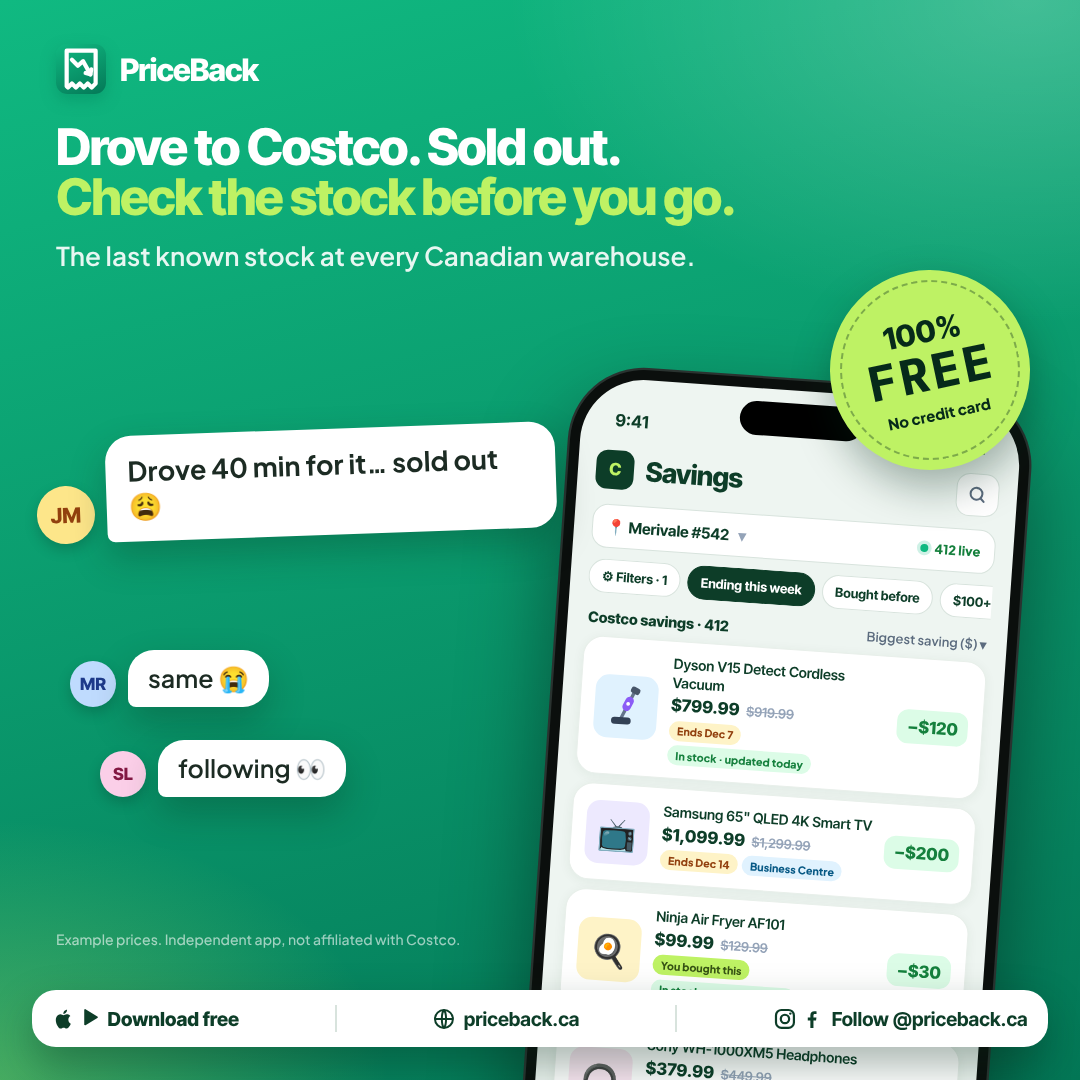
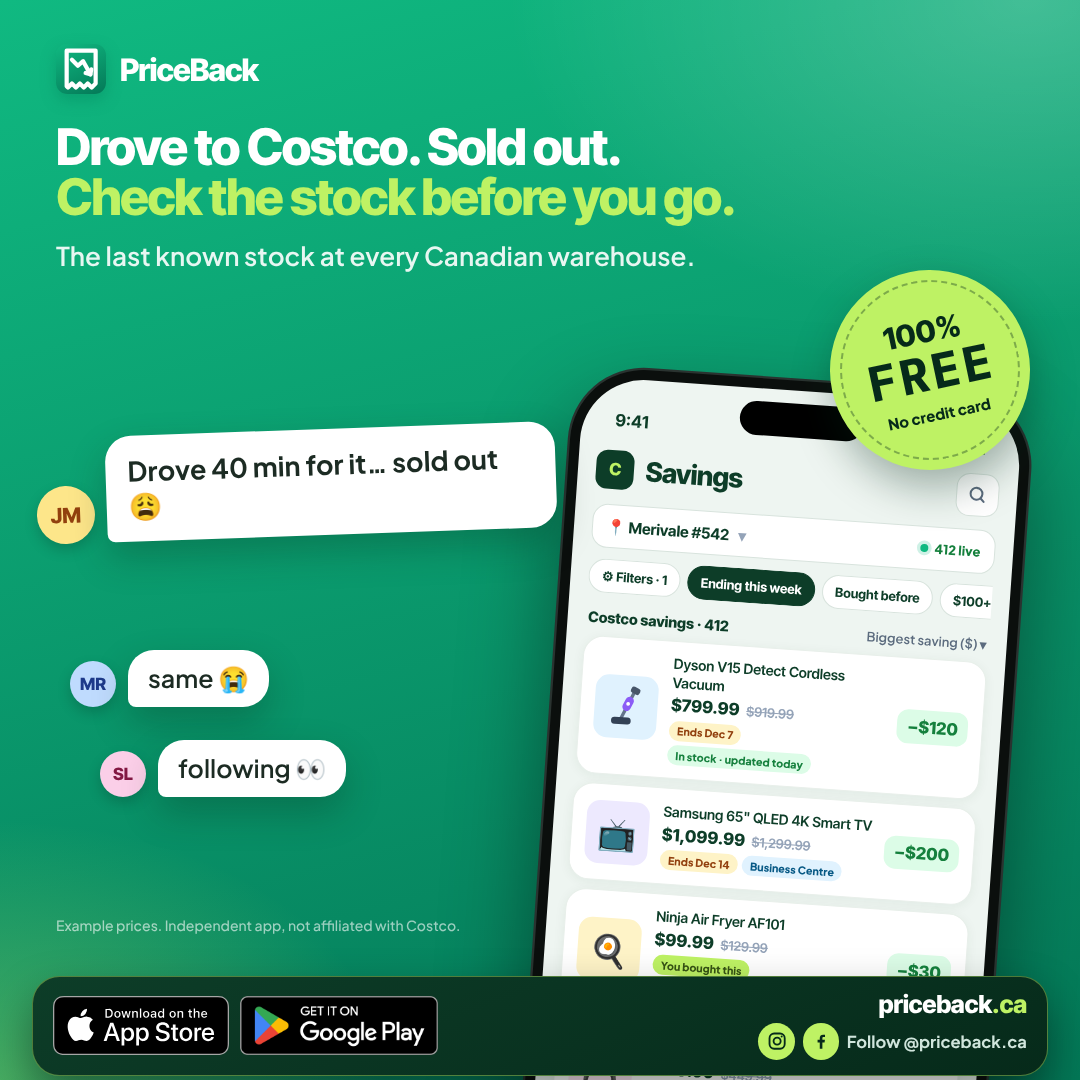
docs(marketing): official store badges in the ad footer, hook 6 (savings in real time)
Maxim, 2026-11-27: the drawn store icons are replaced by Apple's and Google's official
badges, the same artwork as the weekly carousels; the footer is restyled as a dark
panel with priceback.ca and Follow @priceback.ca. New hook: 'Savings in real time.
Not tonight. Not tomorrow.', worded to the harvest's hourly probe.

Claude-Session: https://claude.ai/code/session_01VjE6kd5fuG1wTxpgLx5wMp

Changed region(s): [[0.0306, 0.8556, 0.9778, 1.0]]

diff --git a/Marketing-Plan/launch-2026-12/source/creatives.html b/Marketing-Plan/launch-2026-12/source/creatives.html
@@ -522,6 +522,8 @@ const ADVAR = {
          screen: "deals", b: ["Drove 40 min for it… sold out 😩", "same 😭", "following 👀"] },
     4: { h1: "Missed the saving by a day?", h2: "See when every saving ends.", sub: "Every Costco saving at your warehouse, with its end date.",
          screen: "deals", b: ["Went today. The saving ended yesterday 🙃", "every time 😑"] },
+    6: { h1: "Savings in real time.", h2: "Not tonight. Not tomorrow.", sub: "PriceBack checks Costco every hour and posts each new saving as soon as it’s out.",
+         screen: "deals", b: ["Did anyone see the new savings yet?? 👀", "following"] },
     5: { h1: "Not the flyer. Your warehouse.", h2: "Every saving, live.", sub: "Every Costco saving in every Canadian warehouse. Business Centres too.",
          screen: "deals", b: ["Is the flyer deal at MY warehouse?? 🤷", "following 👀"] },
   },
@@ -581,27 +583,32 @@ const GL = {
   fb: (s) => `<svg width="${s}" height="${s}" viewBox="0 0 24 24" fill="currentColor"><path d="M13.5 21v-7.5h2.6l.4-3h-3V8.6c0-.9.3-1.5 1.5-1.5h1.6V4.4c-.3 0-1.2-.1-2.3-.1-2.3 0-3.9 1.4-3.9 4v2.2H7.8v3h2.6V21h3.1z"/></svg>`,
 };
 function footer(c) {
-  const k = c.fk, ic = 26 * k;
-  const item = (g, t, strong) => `<span style="display:inline-flex;align-items:center;gap:${8 * k}px;font-family:var(--T);font-weight:${strong ? 800 : 700};font-size:${21 * k}px;color:var(--ink);white-space:nowrap">${g}${t}</span>`;
-  const sep = `<span style="width:${2 * k}px;height:${30 * k}px;background:var(--border);display:inline-block"></span>`;
-  return `<div style="position:absolute;left:${c.fx}px;right:${c.fx}px;top:${c.fy}px;z-index:8;background:#fff;border-radius:${26 * k}px;padding:${16 * k}px ${22 * k}px;
-      box-shadow:0 18px 40px rgba(6,42,26,.35);display:flex;align-items:center;justify-content:space-between;gap:${12 * k}px">
-    ${item(`<span style="display:inline-flex;gap:${4 * k}px">${GL.apple(ic)}${GL.play(ic * .85)}</span>`, FOOT.dl, true)}${sep}
-    ${item(GL.web(ic), FOOT.web)}${sep}
-    ${item(`<span style="display:inline-flex;gap:${4 * k}px">${GL.ig(ic)}${GL.fb(ic)}</span>`, `${FOOT.follow} @priceback.ca`)}</div>`;
+  /* Maxim, 2026-11-27: the official badges, as in the weekly carousels (social-media-manager
+     sm-content/06-launch/badges, unaltered; Google's transparent margin trimmed). Apple has no French badge
+     there yet: the English one is used on FR until app-store-fr.svg is added (the carousels' rule). */
+  const k = c.fk, bh = 64 * k;
+  const circ = (svg) => `<span style="width:${40 * k}px;height:${40 * k}px;border-radius:50%;background:var(--lime);color:var(--inkDeep);display:inline-flex;align-items:center;justify-content:center;flex:none">${svg}</span>`;
+  return `<div style="position:absolute;left:${c.fx}px;right:${c.fx}px;top:${c.fy}px;z-index:8;border-radius:${30 * k}px;padding:${16 * k}px ${22 * k}px;
+      background:linear-gradient(160deg,#0d3d28,#062a1a);border:${1.5 * k}px solid rgba(190,242,100,.4);box-shadow:0 20px 44px rgba(0,0,0,.4);
+      display:flex;align-items:center;justify-content:space-between;gap:${16 * k}px">
+    <div style="display:flex;align-items:center;gap:${12 * k}px"><img src="badges/app-store-en.svg" style="height:${bh}px;display:block"><img src="badges/google-play-${LANG}.png" style="height:${bh}px;display:block"></div>
+    <div style="display:flex;flex-direction:column;align-items:flex-end;gap:${7 * k}px">
+      <div style="font-family:var(--T);font-weight:800;font-size:${27 * k}px;color:#fff;letter-spacing:-.4px;line-height:1">priceback<span style="color:var(--lime)">.ca</span></div>
+      <div style="display:flex;align-items:center;gap:${8 * k}px;font-family:var(--J);font-weight:700;font-size:${18 * k}px;color:rgba(226,245,237,.92);white-space:nowrap">${circ(GL.ig(22 * k))}${circ(GL.fb(22 * k))}<span>${FOOT.follow} @priceback.ca</span></div>
+    </div></div>`;
 }
 
 /* per format: [W, H, logo{x,y,s}, head{y,size}, phone{x,y,w,rot}, stickers, bubbles/receipt, legal{y}] */
 const ADL = {
   poster: { W: 1080, H: 1350, lx: 64, ly: 56, ls: 58, hy: 150, hs: 84, ss: 30, px: 452, py: 470, pw: 560, pr: 4,
             fs: [790, 350, 236], bub: [[36, 560, 500, 1], [70, 800, 0, 0], [100, 900, 0, 0]], bx: 60, by: 1010, bk: .82,
-            rc: [40, 560, 420, -9, 1.05], ly2: 1170, fx: 40, fy: 1240, fk: 1 },
+            rc: [40, 560, 420, -9, 1.05], ly2: 1170, fx: 40, fy: 1232, fk: 1 },
   story:  { W: 1080, H: 1920, lx: 72, ly: 250, ls: 64, hy: 360, hs: 84, ss: 33, px: 400, py: 800, pw: 640, pr: 4,
             fs: [770, 600, 260], bub: [[40, 1000, 540, 1], [70, 1190, 0, 0], [100, 1290, 0, 0]], bx: 56, by: 1240, bk: .92,
             rc: [36, 920, 440, -9, 1.1], ly2: 1420, fx: 48, fy: 1500, fk: 1.05 },
   square: { W: 1080, H: 1080, lx: 56, ly: 44, ls: 50, hy: 122, hs: 70, ss: 26, px: 540, py: 380, pw: 460, pr: 4,
             fs: [830, 270, 200], bub: [[36, 430, 520, 1], [70, 650, 0, 0], [100, 740, 0, 0]], bx: 50, by: 770, bk: .72,
-            rc: [40, 440, 380, -9, .95], ly2: 930, fx: 32, fy: 990, fk: .92 },
+            rc: [40, 440, 380, -9, .95], ly2: 916, fx: 32, fy: 976, fk: .92 },
 };
 function ad(fmt) {
   const c = ADL[fmt], free = CAMP === "free";
@@ -614,7 +621,7 @@ function ad(fmt) {
   const head = `<div style="position:absolute;left:${c.lx}px;right:${c.lx}px;top:${c.hy}px">
       <div style="font-family:var(--T);font-weight:800;font-size:${hs}px;line-height:1.0;letter-spacing:${-hs * .035}px;color:#fff">${A.h1}<span style="display:block;color:var(--lime)">${A.h2}</span></div>
       <div style="font-family:var(--J);font-weight:600;font-size:${c.ss}px;line-height:1.35;color:rgba(255,255,255,.9);margin-top:${c.ss * .6}px;max-width:${free ? c.fs[0] - c.lx - 24 : c.W * .8}px">${A.sub}</div></div>`;
-  const legal = `<div style="position:absolute;left:${c.lx}px;top:${c.ly2}px;width:${free ? c.px - c.lx - 30 : c.W * .4}px;font-family:var(--J);font-weight:500;font-size:${c.W > 1000 && c.H > 1500 ? 16 : 14}px;line-height:1.35;color:rgba(255,255,255,.6);z-index:7">${A.legal}</div>`;
+  const legal = `<div style="position:absolute;left:${c.lx}px;top:${c.ly2}px;width:${c.px - c.lx - 30}px;font-family:var(--J);font-weight:500;font-size:${c.W > 1000 && c.H > 1500 ? 16 : 14}px;line-height:1.35;color:rgba(255,255,255,.6);z-index:7">${A.legal}</div>`;
   let body;
   if (free) {
     body = phone(c.px, c.py, c.pw, c.pr, (sw) => zoomed(A.screen === "wh" ? whScreen() : dealsScreen(), sw))

diff --git a/Marketing-Plan/14-launch-campaign-stop-asking-the-group.md b/Marketing-Plan/14-launch-campaign-stop-asking-the-group.md
@@ -208,13 +208,23 @@ group-style bubble). **English first; the French follows once the English hooks 
 | 3 | Drove to Costco. Sold out. / Check the stock before you go. | "Drove 40 min for it… sold out 😩" + "same 😭" | Deals (stock chips) | 1b above |
 | 4 | Missed the saving by a day? / See when every saving ends. | "Went today. The saving ended yesterday 🙃" | Deals ("Ending this week") | *Every Costco saving at your warehouse, with the day it ends. Filter "Ending this week" and never show up a day late again. Free.* |
 | 5 | Not the flyer. Your warehouse. / Every saving, live. | "Is the flyer deal at MY warehouse?? 🤷" | Deals | 1c above |
+| 6 | Savings in real time. / Not tonight. Not tomorrow. | "Did anyone see the new savings yet?? 👀" | Deals | *Costco posts a new saving, PriceBack has it within the hour: the harvest checks Costco's pages every hour (6 am–8 pm Toronto) and publishes a new saving as soon as it is read. Not tonight, not tomorrow. Free.* |
 
-Test them as one ad set with five ads (Meta's creative rotation picks the winner), EN only, then translate the best two.
+Hook 6 (Maxim, 2026-11-27: *"the app publish the savings in real time … the minute it is published not later in the
+day"*). The truth today is **within the hour**, not the minute: `Technical/Savings_Harvest_Schedule.md` probes each
+watched source hourly, 06:00–20:00 Toronto, and runs the full read when the probe sees a new saving. So the copy says
+"real time" / "as soon as it's out" with "every hour" beside it, never "the minute" or "instantly". If the probe
+interval is shortened, the copy can follow.
 
-**Footer on every ad (both campaigns):** a white band at the bottom: *Download free* (App Store + Google Play glyphs) ·
-*priceback.ca* · *Follow @priceback.ca* (Instagram + Facebook glyphs). Generic glyphs, never the official store badges
-or Meta logos. On Stories it sits above the zone the platform covers. **To confirm:** the Facebook page's @ handle (the
-band assumes it matches Instagram's `@priceback.ca`).
+Test them as one ad set with six ads (Meta's creative rotation picks the winner), EN only, then translate the best two.
+
+**Footer on every ad (both campaigns), revised 2026-11-27:** a dark-green panel with a lime hairline at the bottom:
+Apple's and Google's **official badges** on the left (the same artwork as the weekly carousels,
+`social-media-manager/sm-content/06-launch/badges`, copied to `launch-2026-12/source/badges/`, unaltered except
+Google's transparent margin, trimmed as the carousels do); on the right **priceback.ca** and *Follow @priceback.ca*
+with Instagram and Facebook icons in lime circles. Google's French badge ("Disponible sur Google Play") on FR; Apple's
+English badge on FR until `app-store-fr.svg` is added to the carousel badges (the carousels' rule). Both pages use
+`@priceback.ca` (confirmed by Maxim).
 
 ### Campaign 2 — Receipt scanner + BLACK (retargeting first)
 

diff --git a/Marketing-Plan/launch-2026-12/README.md b/Marketing-Plan/launch-2026-12/README.md
@@ -4,13 +4,13 @@ Plan and copy: [`../14-launch-campaign-stop-asking-the-group.md`](../14-launch-c
 
 | Folder | Where it goes | Sizes |
 |---|---|---|
-| `meta-ads/campaign-1-free-tools/<lang>/<hook>/` | **Facebook + Instagram ads** (Meta Ads Manager), campaign 1: Deals + Warehouse prices, free. No code, no scanner. Five hooks in EN (`1-stop-asking-the-group` … `5-not-the-flyer`); FR has hook 1 until the EN hooks are chosen | `feed-4x5` 1080×1350 (Feed), `story-reel-9x16` 1080×1920 (Stories, Reels), `square-1x1` 1080×1080 (Feed alt., Google Display / Demand Gen) |
+| `meta-ads/campaign-1-free-tools/<lang>/<hook>/` | **Facebook + Instagram ads** (Meta Ads Manager), campaign 1: Deals + Warehouse prices, free. No code, no scanner. Six hooks in EN (`1-stop-asking-the-group` … `6-real-time`); FR has hook 1 until the EN hooks are chosen | `feed-4x5` 1080×1350 (Feed), `story-reel-9x16` 1080×1920 (Stories, Reels), `square-1x1` 1080×1080 (Feed alt., Google Display / Demand Gen) |
 | `meta-ads/campaign-2-receipt-scan-black/{en,fr}/` | **Facebook + Instagram ads**, campaign 2: receipt scan (Costco + Best Buy), start free, code BLACK | same three |
 | `app-store-screenshots/{en,fr}/` | **App Store Connect** (iPhone 6.9" slot) and **Google Play** (phone screenshots). Slots 1–2 of 10; no promo code, by policy | 1320×2868 |
 
-Every ad ends with a footer band: Download free · priceback.ca · Follow @priceback.ca. The ad images carry no paragraph: in Ads Manager, the **primary text**, the **headline** and the
+Every ad ends with a footer panel: the official App Store and Google Play badges (`source/badges/`, from the carousels), priceback.ca, Follow @priceback.ca. The ad images carry no paragraph: in Ads Manager, the **primary text**, the **headline** and the
 **Install** button are typed in the ad, under the image (copy in §5 of the plan).
 
 Everything renders from `source/creatives.html`:
-`?c=free|scan&v=1..5&f=poster|story|square|store1|store2|info4x5|info9x16|info1x1&lang=en|fr`
+`?c=free|scan&v=1..6&f=poster|story|square|store1|store2|info4x5|info9x16|info1x1&lang=en|fr`
 (`info*` = the earlier info-sheet layouts, kept for organic posts and the carousel's last slide).
